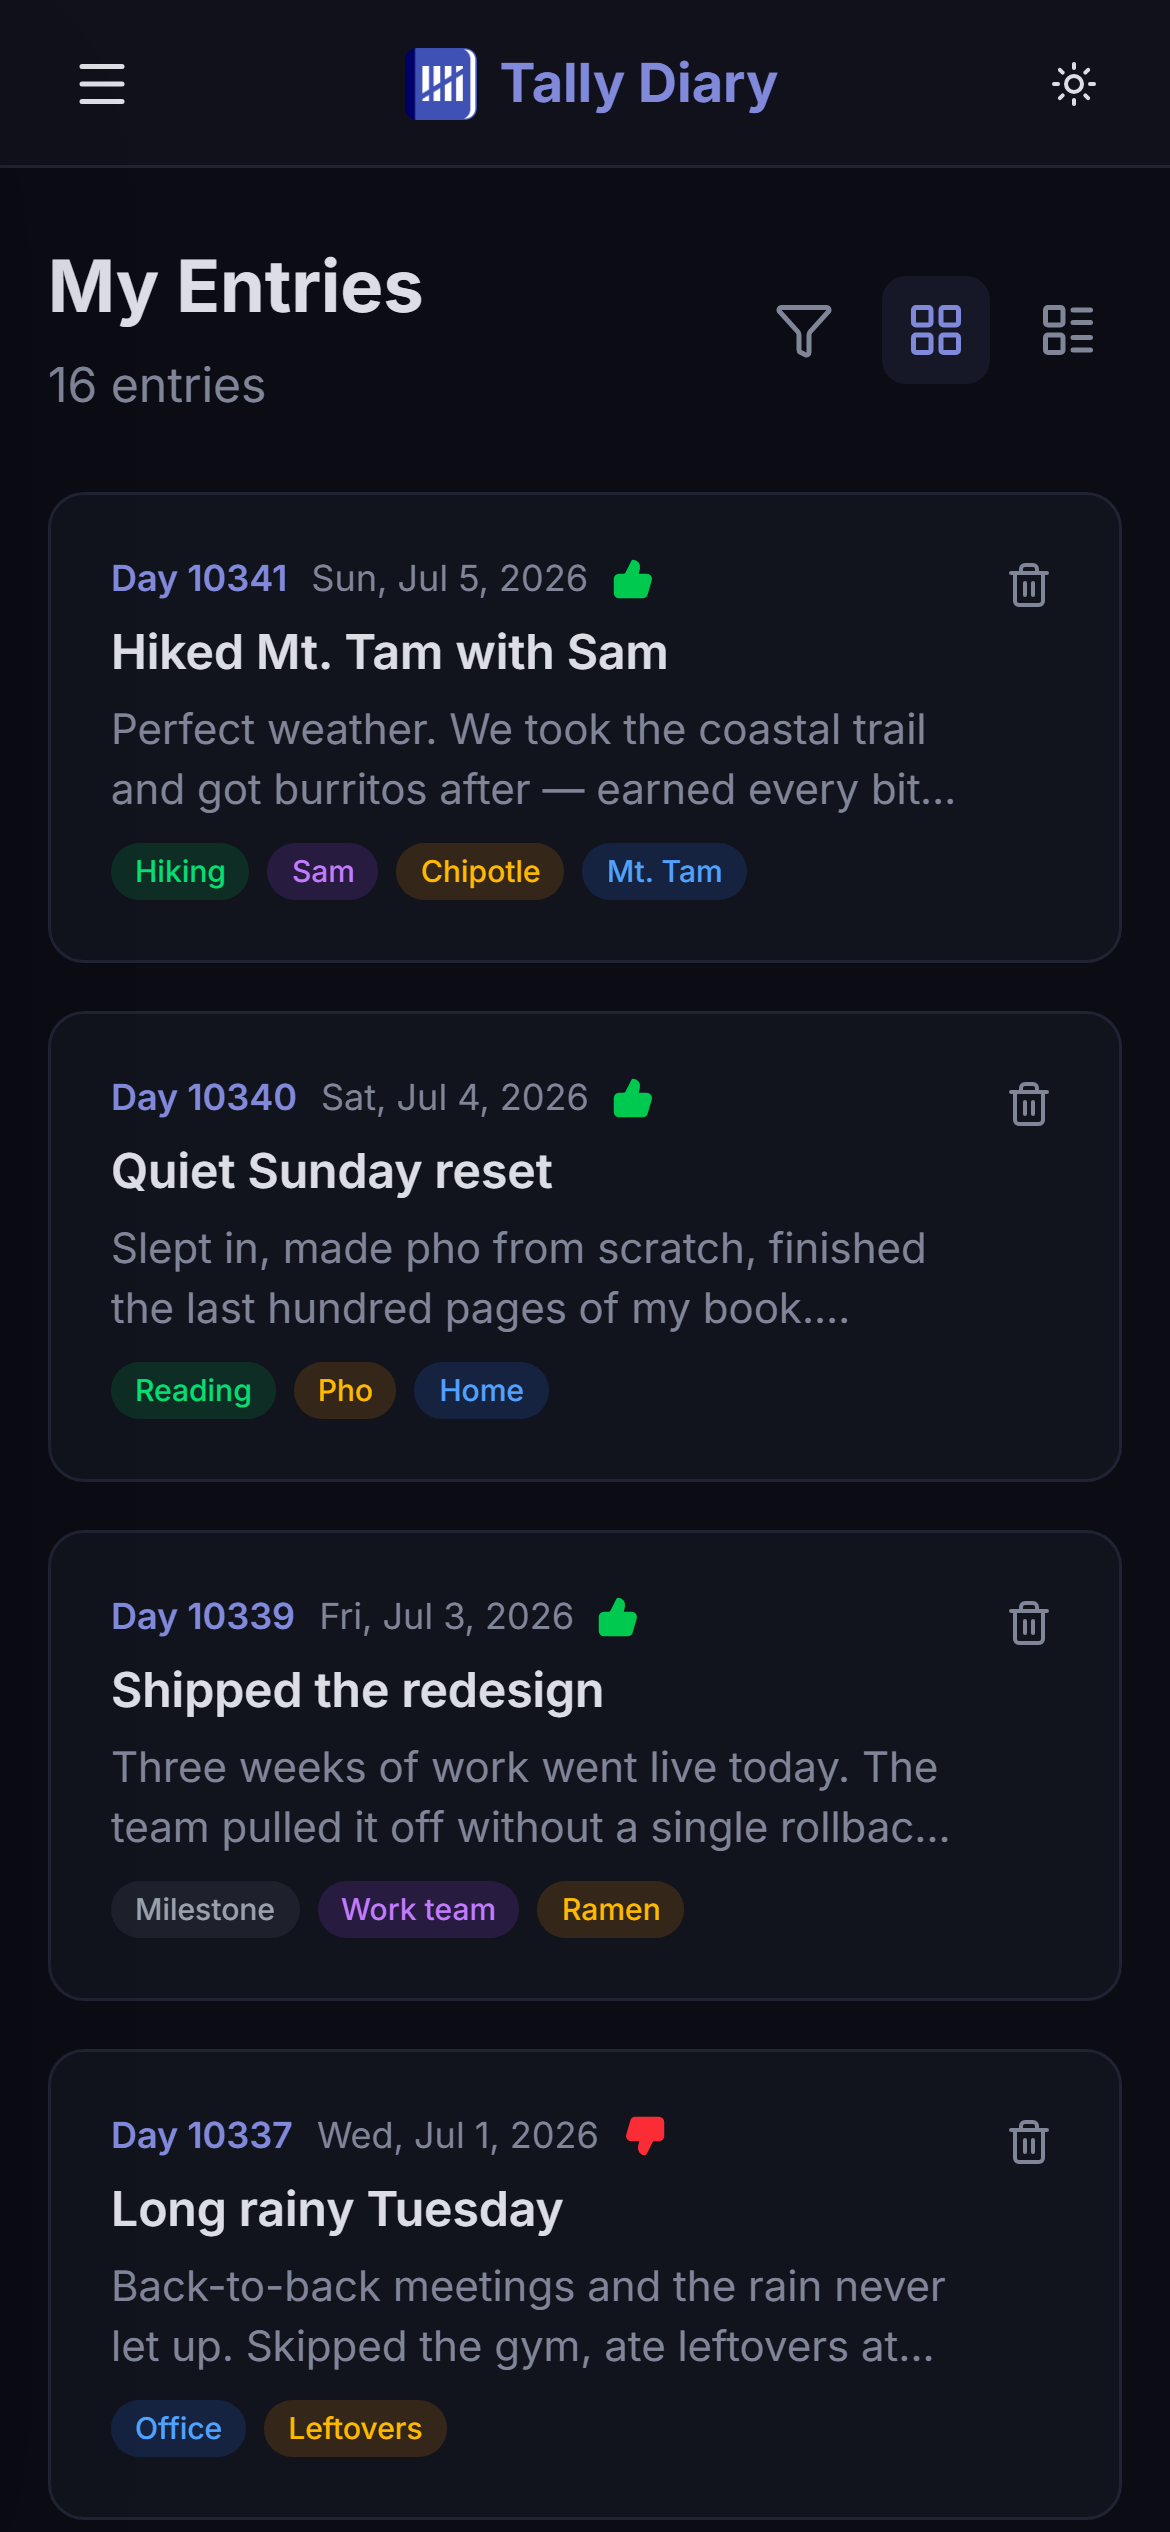
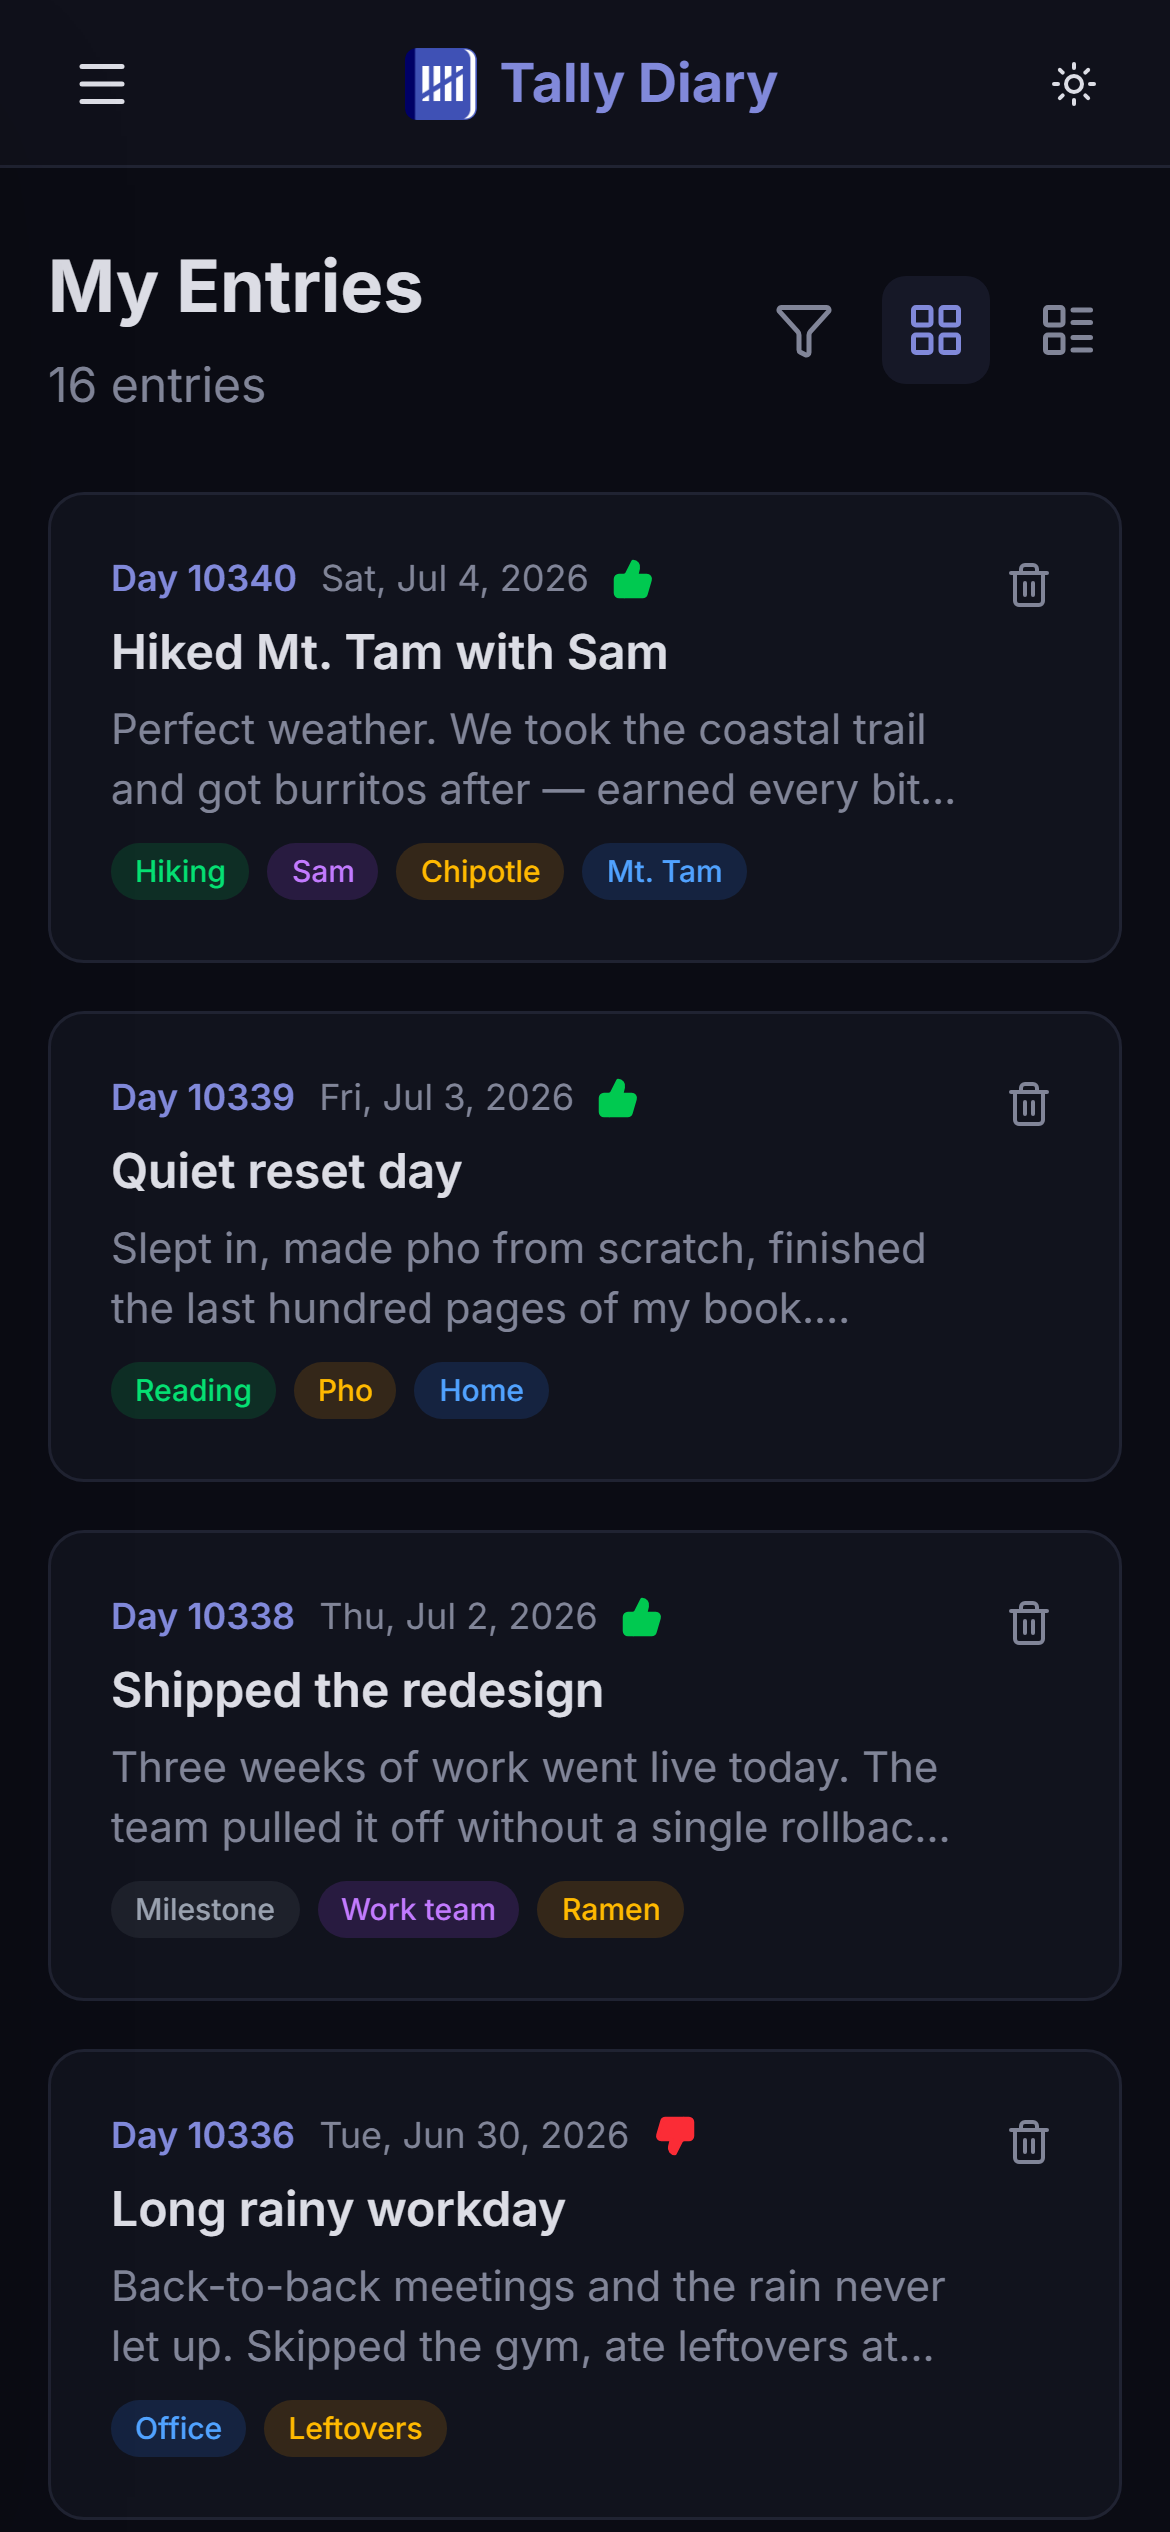
Address store-asset review findings
- importData now dedupes within the imported file itself, not just
  against existing entries; e2e test covers the duplicate-id case
- Delete All Data wipes every appDataFolder file (preferences and
  legacy files included), awaited, matching the listing privacy claim
- Screenshot generator uses local dates (no future-dated entries)
  and weekday-neutral titles; all 12 screenshots regenerated
- Listing full description converted to plain text for store consoles

diff --git a/src/lib/stores.svelte.ts b/src/lib/stores.svelte.ts
@@ -277,6 +277,7 @@ function createDiaryStore() {
 				imported.forEach(entry => {
 					if (!entry.id) entry.id = generateId();
 					if (existingIds.has(entry.id)) return;
+					existingIds.add(entry.id);
 					if (!entry.batchId) entry.batchId = getOpenBatchId();
 					entries.push(entry);
 					triggerBatchUpload(entry.batchId, () => entries);
@@ -289,21 +290,18 @@ function createDiaryStore() {
 			}
 		},
 
-		deleteAllData() {
+		async deleteAllData() {
 			const token = drive.getToken();
 			if (token) {
-				// Delete all batch files in Drive
-				const counts: Record<string, boolean> = {};
-				for (const e of entries) {
-					if (e.batchId && !counts[e.batchId]) {
-						counts[e.batchId] = true;
-						
-						// Quick delete file lookup
-						const fileName = `entries_batch_${e.batchId}`;
-						drive.getFileId(fileName, token).then(id => {
-							if (id) drive.deleteFile(id, token);
-						});
+				// Wipe everything the app has ever written to appDataFolder:
+				// batch files, preferences, and legacy files
+				try {
+					const files = await drive.listAllFiles(token);
+					for (let i = 0; i < files.length; i += 10) {
+						await Promise.all(files.slice(i, i + 10).map(f => drive.deleteFile(f.id, token)));
 					}
+				} catch (e) {
+					console.warn('[Store] Drive wipe failed:', e);
 				}
 			}
 			entries = [];

diff --git a/src/lib/driveHelper.ts b/src/lib/driveHelper.ts
@@ -197,16 +197,25 @@ export async function readFile(fileName: string, token: string): Promise<any | n
 
 /** List all entry files (name starts with "entries_batch_") in appDataFolder. */
 export async function listBatchFiles(token: string): Promise<{ id: string; name: string }[]> {
+	return listFiles(token, "name contains 'entries_batch_'");
+}
+
+/** List every file the app has created in appDataFolder (batches, preferences, legacy). */
+export async function listAllFiles(token: string): Promise<{ id: string; name: string }[]> {
+	return listFiles(token);
+}
+
+async function listFiles(token: string, q?: string): Promise<{ id: string; name: string }[]> {
 	const allFiles: { id: string; name: string }[] = [];
 	let pageToken: string | undefined;
 
 	do {
 		const params = new URLSearchParams({
-			q: "name contains 'entries_batch_'",
 			spaces: 'appDataFolder',
 			fields: 'nextPageToken, files(id, name)',
 			pageSize: '100',
 		});
+		if (q) params.set('q', q);
 		if (pageToken) params.set('pageToken', pageToken);
 
 		const resp = await driveRequest(`${DRIVE_API}/files?${params}`, token);

diff --git a/tests/app.spec.ts b/tests/app.spec.ts
@@ -134,11 +134,13 @@ test('backup export/import round-trip does not duplicate entries', async ({ page
 	const stored = await page.evaluate(() => JSON.parse(localStorage.getItem('tally-diary-entries') || '[]'));
 	expect(stored).toHaveLength(3);
 
-	// A genuinely new entry in the file still imports
+	// A genuinely new entry still imports — but only once, even if the file
+	// itself contains the same id twice
 	await page.evaluate(() => {
 		const input = document.querySelector('input[type="file"]') as HTMLInputElement;
+		const newEntry = { id: 'brand-new', title: 'New from file', date: '2026-06-20', bodyText: '', tallies: [], isThumbUp: false, isThumbDown: false, entryNumber: 4 };
 		const file = new File(
-			[JSON.stringify([{ id: 'brand-new', title: 'New from file', date: '2026-06-20', bodyText: '', tallies: [], isThumbUp: false, isThumbDown: false, entryNumber: 4 }])],
+			[JSON.stringify([newEntry, newEntry])],
 			'extra.json',
 			{ type: 'application/json' }
 		);

diff --git a/src/routes/settings/+page.svelte b/src/routes/settings/+page.svelte
@@ -53,10 +53,11 @@
 		input.value = "";
 	}
 
-	function deleteAllData() {
-		store.deleteAllData();
-		dateOfBirth = "2000-01-01";
+	async function deleteAllData() {
 		showDeleteConfirm = false;
+		toast("Deleting all data...");
+		await store.deleteAllData();
+		dateOfBirth = "2000-01-01";
 		toast("All data deleted");
 	}
 </script>

diff --git a/store/LISTING.md b/store/LISTING.md
@@ -26,31 +26,36 @@ Character limits noted per field; all copy below fits its limit.
 
 ## Full description (both stores, ≤4000 chars)
 
-> Tally Diary is a journal that counts. Write about your day, then tag it with quick "tally marks" — the food you ate, the people you saw, the places you went, the things you did. Over time, your diary becomes a living scoreboard of your life: how many times you hit the gym this year, how often you've had ramen, how many days you've spent with your best friend.
->
-> **Your day, by the numbers**
-> Every entry shows your "Day N" — the number of days you've been alive. Day 10,341 sounds a lot more momentous than just another Tuesday.
->
-> **Tally what matters**
-> Add tally marks in five categories — Food, Activity, Location, Person, and Other — with two taps. The Insights page draws them as real hand-drawn tally strokes, bundled in fives, and tapping any tally jumps straight to every entry it appears in.
->
-> **Mark the good days (and the bad ones)**
-> A simple thumbs up or down on each entry lets you filter your timeline to just the good days — or study the rough ones.
->
-> **One year ago today**
-> Insights resurfaces the entry you wrote exactly a year ago. Past you has things to tell present you.
->
-> **Private by design**
-> Tally Diary has no servers and collects nothing. Your entries live on your device and sync to a hidden, app-private folder in *your own* Google Drive — a space no other app (and not even you, through the Drive UI) can browse. Sign-in is optional: skip it entirely and everything stays on-device.
->
-> **Works offline, everywhere**
-> Local-first storage means the app opens instantly and works with no connection — on your phone, tablet, or as an installable app on your computer. Drive sync catches up quietly whenever you're back online.
->
-> **Also nice**
-> • Beautiful dark and light themes that follow your device
-> • Search and filter your timeline by text, tally, date range, or good/bad days
-> • Full backup export and import — your data is a plain JSON file you can keep anywhere
-> • No accounts, no ads, no analytics, no subscriptions
+Plain text — both stores render this verbatim (no Markdown/HTML), so headers are
+set off with blank lines only. Paste exactly what's inside the block:
+
+```
+Tally Diary is a journal that counts. Write about your day, then tag it with quick "tally marks" — the food you ate, the people you saw, the places you went, the things you did. Over time, your diary becomes a living scoreboard of your life: how many times you hit the gym this year, how often you've had ramen, how many days you've spent with your best friend.
+
+YOUR DAY, BY THE NUMBERS
+Every entry shows your "Day N" — the number of days you've been alive. Day 10,341 sounds a lot more momentous than just another Tuesday.
+
+TALLY WHAT MATTERS
+Add tally marks in five categories — Food, Activity, Location, Person, and Other — with two taps. The Insights page draws them as real hand-drawn tally strokes, bundled in fives, and tapping any tally jumps straight to every entry it appears in.
+
+MARK THE GOOD DAYS (AND THE BAD ONES)
+A simple thumbs up or down on each entry lets you filter your timeline to just the good days — or study the rough ones.
+
+ONE YEAR AGO TODAY
+Insights resurfaces the entry you wrote exactly a year ago. Past you has things to tell present you.
+
+PRIVATE BY DESIGN
+Tally Diary has no servers and collects nothing. Your entries live on your device and sync to a hidden, app-private folder in your own Google Drive — a space no other app (and not even you, through the Drive UI) can browse. Sign-in is optional: skip it entirely and everything stays on-device.
+
+WORKS OFFLINE, EVERYWHERE
+Local-first storage means the app opens instantly and works with no connection — on your phone, tablet, or as an installable app on your computer. Drive sync catches up quietly whenever you're back online.
+
+ALSO NICE
+• Beautiful dark and light themes that follow your device
+• Search and filter your timeline by text, tally, date range, or good/bad days
+• Full backup export and import — your data is a plain JSON file you can keep anywhere
+• No accounts, no ads, no analytics, no subscriptions
+```
 
 ## Apple keywords (≤100 chars)
 
